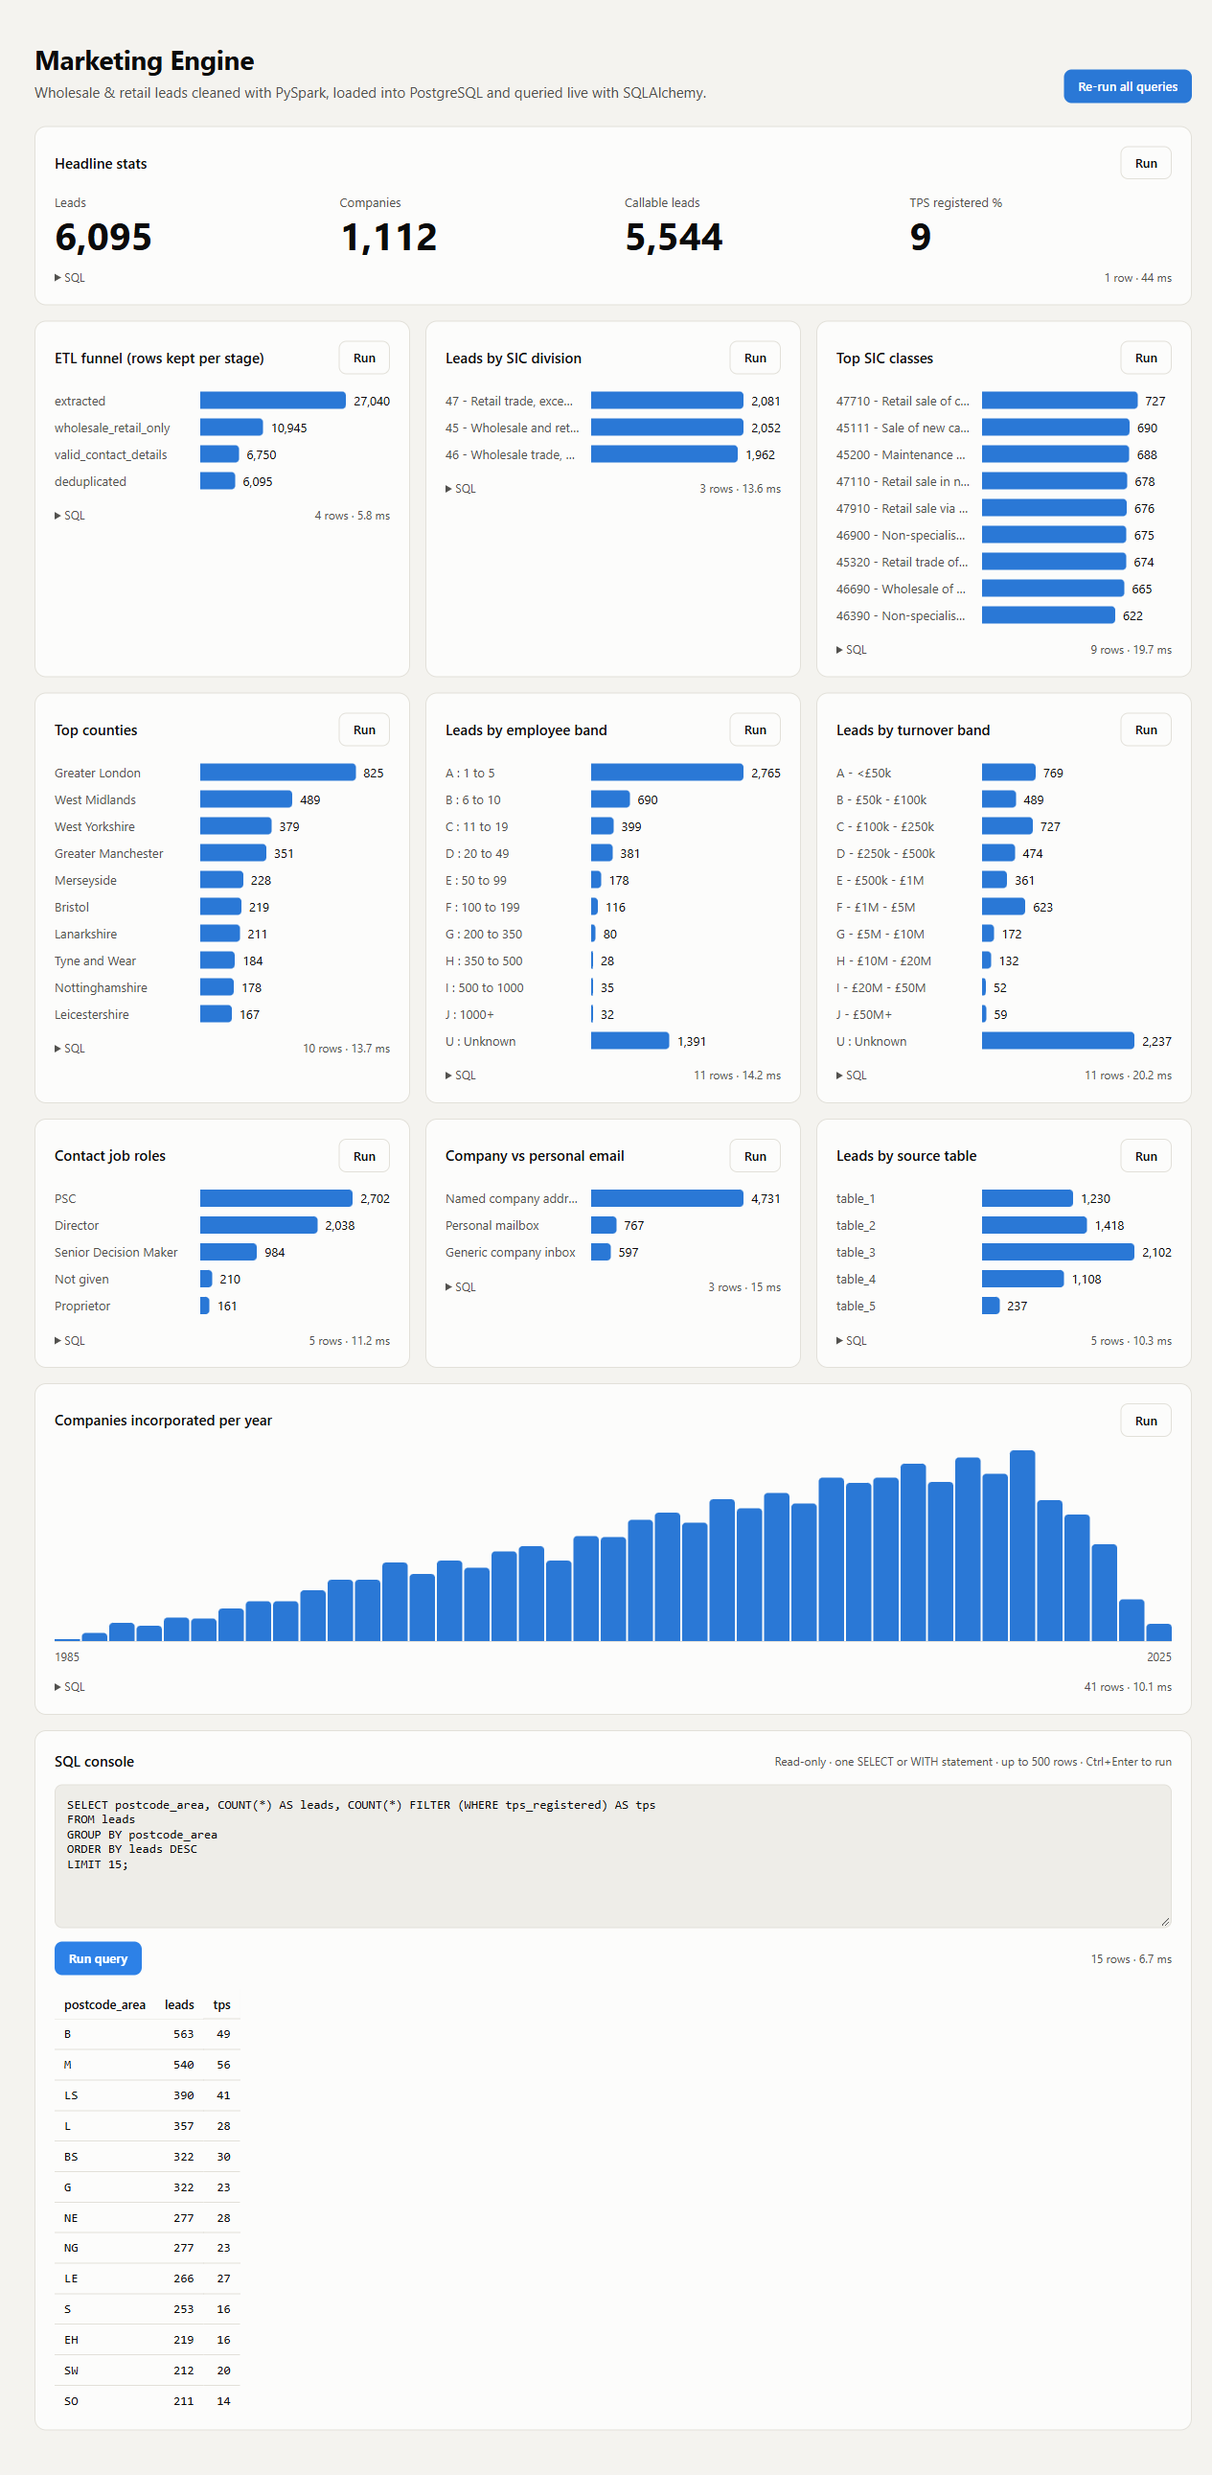
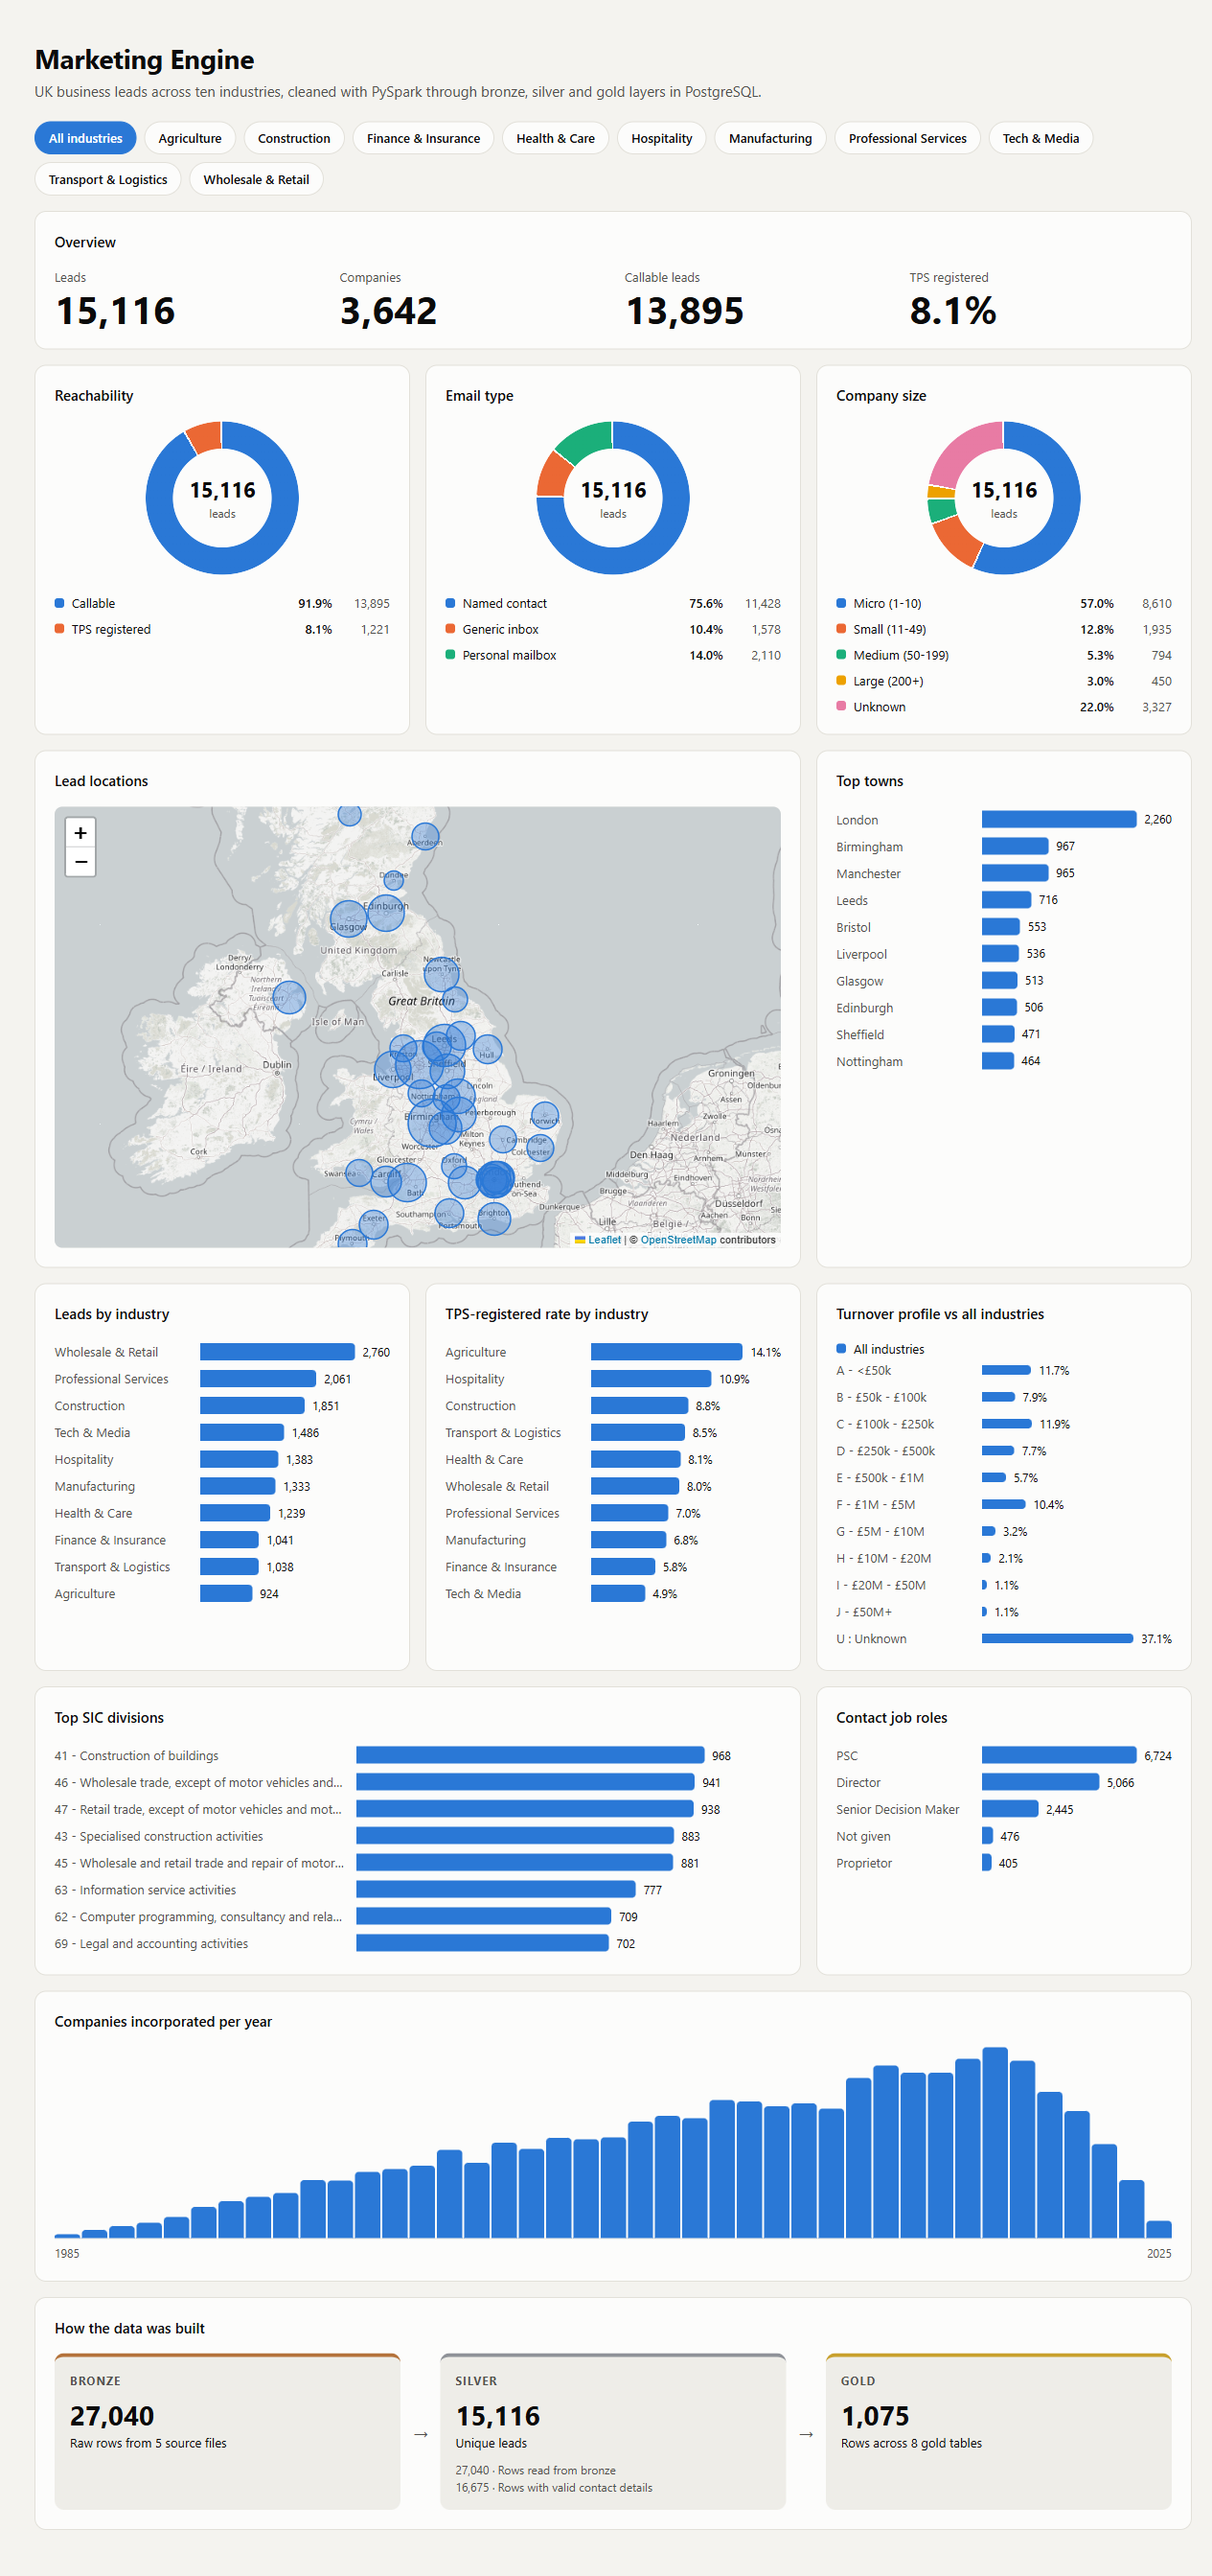
Update README and dashboard screenshots

diff --git a/README.md b/README.md
@@ -1,69 +1,101 @@
 # Marketing Engine
 
-An end-to-end ETL pipeline that turns messy B2B lead lists into a clean, queryable PostgreSQL table, with a live HTML/CSS dashboard on top.
+An end-to-end ETL pipeline that turns messy B2B lead lists into analytics-ready tables, with a live dashboard you can filter by industry.
 
-Five raw CSV exports with inconsistent schemas are extracted, cleaned and validated with **PySpark**, loaded into **PostgreSQL** over JDBC, and explored through a **FastAPI** dashboard that runs raw SQL through **SQLAlchemy**.
+Five raw CSV exports with inconsistent schemas are processed by **PySpark** through a **bronze → silver → gold** medallion architecture in **PostgreSQL**. A **FastAPI** dashboard then reads the gold layer with raw SQL through **SQLAlchemy**, and renders it with HTML, CSS and a Leaflet map.
 
-![Dashboard](docs/dashboard.png)
+![Dashboard showing all industries](docs/dashboard.png)
 
-## Pipeline
+## Architecture
 
 ```mermaid
 flowchart LR
-    G[generate_fake_data.py] -->|5 raw CSVs| B[(data/bronze)]
-    B -->|extract| S[PySpark]
-    S -->|transform| S
-    S -->|load over JDBC| P[(PostgreSQL<br/>leads<br/>etl_stages)]
-    P -->|raw SQL via SQLAlchemy| A[FastAPI]
-    A -->|JSON| D[HTML / CSS dashboard]
+    S[etl/source<br/>fake data generator] -->|5 raw CSVs| L[(data/bronze)]
+    L --> B[bronze_ingest]
+    B --> BZ[(bronze schema<br/>raw tables)]
+    BZ --> SL[silver_leads]
+    R[etl/reference<br/>postcode areas, industries] --> SL
+    SL --> SV[(silver schema<br/>clean leads)]
+    SV --> G[gold_marts]
+    G --> GD[(gold schema<br/>8 aggregate tables)]
+    GD -->|raw SQL via SQLAlchemy| A[FastAPI]
+    A --> D[Dashboard]
 ```
 
-### Extract
-`etl/generate_fake_data.py` writes five lead lists to `data/bronze/`. They copy the shape of real data-broker exports, including the inconsistencies:
+Each layer is its own PostgreSQL schema, and each job reads only from the layer before it. Any job can be re-run on its own without starting the whole pipeline again.
 
-| File | Columns | Quirks |
+| Layer | Contents | Job |
+|---|---|---|
+| **bronze** | The five source files, loaded exactly as received (every column as text) plus `_source_file` and `_ingested_at` | `etl/jobs/bronze_ingest.py` |
+| **silver** | `silver.leads`: one validated, standardised, enriched and de-duplicated row per contact, with `email` as the primary key | `etl/jobs/silver_leads.py` |
+| **gold** | Pre-aggregated tables split by industry, built for the dashboard | `etl/jobs/gold_marts.py` |
+
+Every job writes its row counts to `public.etl_stages`, so each run leaves an audit trail.
+
+## The data
+
+`etl/source/generate_fake_data.py` creates five lead lists in `data/bronze/` covering **ten industries** (SIC sections A, C, F, G, H, I, J, K, M and Q), with real SIC 2007 division and class codes. The industry definitions live in `etl/source/catalog.py`.
+
+Each industry has its own profile, so the filters show real differences:
+
+- **Location:** Finance clusters in the City of London and Edinburgh, Agriculture in Norfolk, Devon and the Highlands, Manufacturing in the Midlands.
+- **Company size and turnover:** the mix of size and turnover bands differs between industries.
+- **Contact data:** TPS registration rates and the share of personal (e.g. Gmail) addresses differ.
+
+The files reproduce the quirks of real data-broker exports:
+
+| File | Schema | Quirks |
 |---|---|---|
 | `table_1`, `table_4` | `URN, CompanyregNo, Company, Ad1–Ad4, Town, County, …, Email, …, Emps, TO` | capitalised `Email` |
-| `table_2`, `table_5` | same as above | lowercase `email` |
-| `table_3` | `ID, CompanyName, Address1–Address6, TelephoneNumber, Firstname, Surname, Role, …, EmployeeBand, TurnoverBand` | different naming throughout, no town/county or TPS columns |
+| `table_2`, `table_5` | same | lowercase `email` |
+| `table_3` | `ID, CompanyName, Address1–Address6, TelephoneNumber, Firstname, Surname, Role, …, EmployeeBand, TurnoverBand` | different naming, no town, county or TPS columns |
 
-The generated rows contain missing contact details, malformed emails, phone numbers in several formats (`01134960123`, `0113 496 0123`, `+44 113 4960123`), websites with and without `http(s)://`, stray whitespace and capitals, exact duplicate rows, and the same contact appearing in more than one file. All phone numbers come from Ofcom's ranges reserved for fiction.
+The rows also include:
 
-### Transform (PySpark)
-`etl/pipeline.py`:
+- missing contact details and malformed emails
+- phone numbers in three formats (`01134960123`, `0113 496 0123`, `+44 113 4960123`)
+- websites with and without `http(s)://`
+- stray whitespace and capitals
+- exact duplicate rows, and the same contact repeated across files
 
-1. **Harmonise schemas.** Renames `table_3`'s columns to the common naming, then unions all five files by column name and tags each row with `source_table`.
-2. **Filter.** Keeps only SIC sector G (wholesale & retail trade).
-3. **Clean & standardise.**
-   - Trims every text field and lowercases emails.
-   - Strips `http(s)://` and trailing slashes from websites.
-   - Converts phone numbers to 11-digit UK format (`+44` becomes `0`).
-   - Upper-cases postcodes and derives the postcode area.
-   - Parses incorporation dates.
-4. **Validate.** Nulls out emails, websites and phone numbers that fail format checks, then drops any lead without a usable email, phone and website.
-5. **Flag compliance.** `tps_registered` is true when the number is on the TPS or Corporate TPS list.
-6. **Deduplicate.** One row per email address, across all source files.
+All phone numbers come from Ofcom's ranges reserved for fiction.
 
-The row count after each stage is recorded.
+## Transformations
 
-### Load (PostgreSQL)
-The pipeline creates the database if it doesn't exist, then:
+Column rules live in `etl/transforms/columns.py`, row-level steps in `etl/transforms/leads.py`, and aggregations in `etl/transforms/marts.py`. They are pure DataFrame functions with no I/O, so each one can be tested on its own.
 
-- writes the result to `leads` through Spark's JDBC writer
-- adds a primary key on `email`
-- records the stage counts in `etl_stages`, which the dashboard shows as a funnel
+1. **Harmonise:** rename `table_3`'s columns to the common schema, then union all files by column name.
+2. **Standardise:**
+   - Trim text and lowercase emails.
+   - Convert phone numbers to 11-digit UK format (`+44` becomes `0`).
+   - Strip `http(s)://` from websites.
+   - Normalise postcodes and parse dates.
+3. **Derive:**
+   - SIC sector code and postcode area.
+   - Company size class from the employee band.
+   - Email type: named contact, generic inbox or personal mailbox.
+   - TPS/CTPS flag.
+4. **Enrich:** join reference data from `etl/reference/` for readable industry names, map coordinates, and the town and county missing from `table_3`.
+5. **Validate:** null out invalid emails, phones and websites, then drop leads that can't be contacted on all three.
+6. **De-duplicate:** keep one row per email address across all sources.
+7. **Aggregate (gold):** industry summary, locations, email mix, company size mix, turnover mix, SIC divisions, job roles and incorporations by year.
 
-### Dashboard
-`dashboard/app.py` is a small FastAPI app. Every chart is a raw SQL query executed with SQLAlchemy's `text()`. Each card can be re-run, and has a toggle showing the exact SQL behind it. The charts are plain HTML/CSS bars with no charting library.
+## Dashboard
 
-The **SQL console** at the bottom runs your own queries against the database. It is restricted to one `SELECT`/`WITH` statement per run, inside a read-only transaction, with a 5-second statement timeout and a 500-row cap.
+![Dashboard filtered to Finance & Insurance](docs/dashboard-finance.png)
 
-| Endpoint | Description |
-|---|---|
-| `GET /` | Dashboard |
-| `GET /api/queries` | Saved queries with their SQL |
-| `GET /api/queries/{key}` | Run a saved query |
-| `POST /api/sql` | Run a read-only query: `{"sql": "SELECT ..."}` |
+The industry buttons filter the whole dashboard. Every chart is a raw SQL query against the gold schema, run through SQLAlchemy `text()` with a bound `:industry` parameter.
+
+- **Overview:** leads, companies, callable leads and TPS-registered rate.
+- **Donut charts:** reachability, email type and company size, drawn in pure CSS with `conic-gradient`.
+- **Map:** lead locations as bubbles sized by volume (Leaflet + OpenStreetMap).
+- **Comparisons:**
+  - Leads and TPS rate for every industry, with the selected one highlighted.
+  - The selected industry's turnover profile against all industries.
+- **Breakdowns:** top towns, SIC divisions, contact roles, and companies incorporated per year.
+- **Pipeline:** row counts through bronze, silver and gold, from `public.etl_stages`.
+
+The API is a single read-only endpoint: `GET /api/dashboard?industry=K` (or `ALL`). It validates the filter, then runs every query in one read-only transaction with a statement timeout.
 
 ## Running it
 
@@ -76,40 +108,75 @@ pip install -r requirements.txt
 
 $env:DATABASE_URL = "postgresql+psycopg://postgres:<your-password>@localhost:5432/marketing_engine"
 
-python etl/generate_fake_data.py
-python etl/pipeline.py
-python dashboard/app.py
+python -m etl.source.generate_fake_data
+python -m etl.pipeline
+python -m dashboard.app
 ```
 
 Then open http://127.0.0.1:8000.
 
 On macOS/Linux, use `source venv/bin/activate` and `export DATABASE_URL=...` instead. If your password contains special characters, URL-encode them (for example `@` becomes `%40`).
 
-The first pipeline run downloads the PostgreSQL JDBC driver from Maven Central into `jars/`. Spark loads it from the driver classpath, so the pipeline also runs on Windows without `winutils.exe`. The `HADOOP_HOME` warning Spark prints at startup can be ignored.
+To run a single layer:
 
-Example output:
+```powershell
+python -m etl.jobs.bronze_ingest
+python -m etl.jobs.silver_leads
+python -m etl.jobs.gold_marts
+```
+
+To run the tests:
+
+```powershell
+python -m pytest tests
+```
+
+Example pipeline output:
 
 ```
-extracted                  27040
-wholesale_retail_only      10945
-valid_contact_details       6750
-deduplicated                6095
-Loaded 6095 leads into marketing_engine.leads
+bronze  Raw rows from 5 source files               27040
+silver  Rows read from bronze                      27040
+silver  Rows with valid contact details            16675
+silver  Unique leads                               15116
+gold    Rows across 8 gold tables                   1075
 ```
+
+### Notes
+
+- **JDBC driver:** the first run downloads the PostgreSQL JDBC driver from Maven Central into `jars/`.
+- **No `winutils.exe` needed on Windows:** Spark loads the driver from the driver classpath and only ever writes to PostgreSQL. The `HADOOP_HOME` warning it prints at startup can be ignored.
+- **Partitions:** `spark.sql.shuffle.partitions` is lowered to 8 in `etl/config.py`. Spark's default of 200 is far too many for data this size.
 
 ## Project layout
 
 ```
 etl/
-  generate_fake_data.py   builds the five raw CSVs
-  pipeline.py             extract → transform → load
+  config.py                 paths, database and Spark settings
+  pipeline.py               runs bronze → silver → gold
+  common/
+    spark.py                Spark session and JDBC driver
+    database.py             schemas, JDBC read/write, stage audit
+  jobs/
+    bronze_ingest.py        CSV files → bronze schema
+    silver_leads.py         bronze → silver.leads
+    gold_marts.py           silver → gold aggregates
+  transforms/
+    columns.py              column-level cleaning rules
+    leads.py                harmonise, standardise, enrich, validate, dedupe
+    marts.py                gold aggregations
+  reference/
+    postcode_areas.csv      postcode area → town, county, coordinates
+    industries.csv          SIC section → industry name
+  source/
+    catalog.py              industry, SIC and naming catalogue for fake data
+    generate_fake_data.py   writes the five raw CSVs
 dashboard/
-  app.py                  FastAPI + SQLAlchemy raw SQL API
-  static/                 index.html, style.css, app.js
-docs/
-  dashboard.png
+  app.py                    FastAPI + SQLAlchemy raw SQL
+  static/                   index.html, style.css, app.js
+tests/
+  test_transforms.py        PySpark unit tests for the transforms
 ```
 
 ## Tech stack
 
-PySpark · PostgreSQL · SQLAlchemy · psycopg 3 · FastAPI · Uvicorn · HTML · CSS · vanilla JavaScript
+PySpark · PostgreSQL · SQLAlchemy · psycopg 3 · FastAPI · Uvicorn · pytest · HTML · CSS · JavaScript · Leaflet · OpenStreetMap
